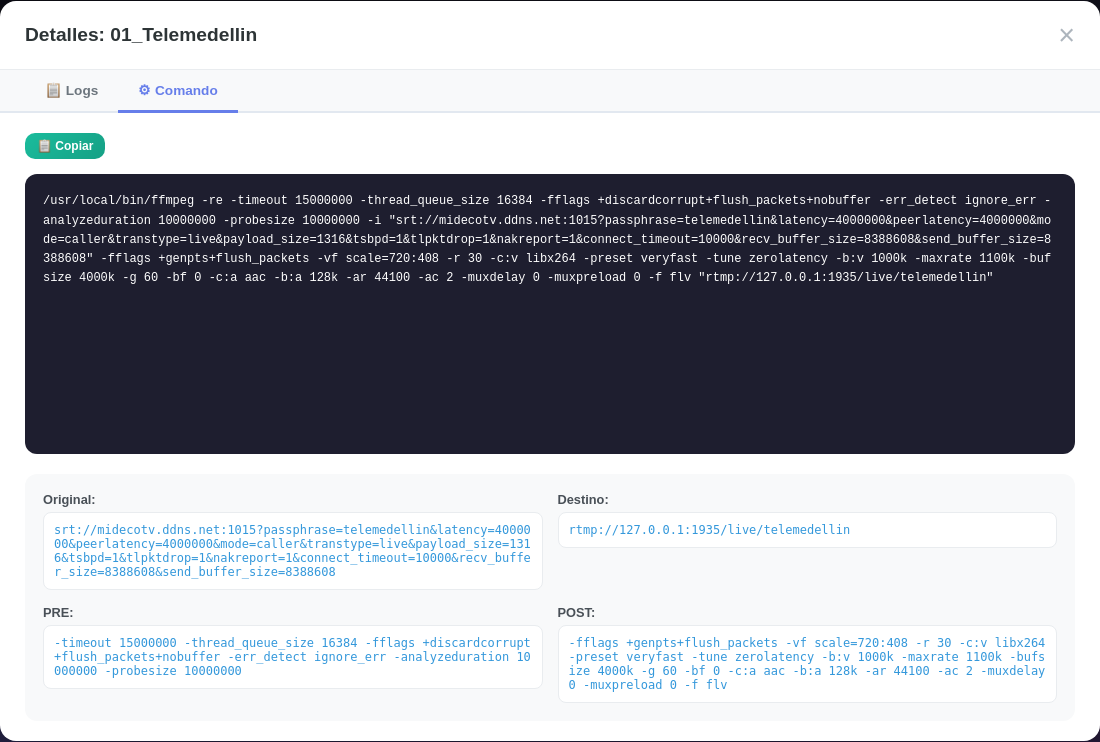
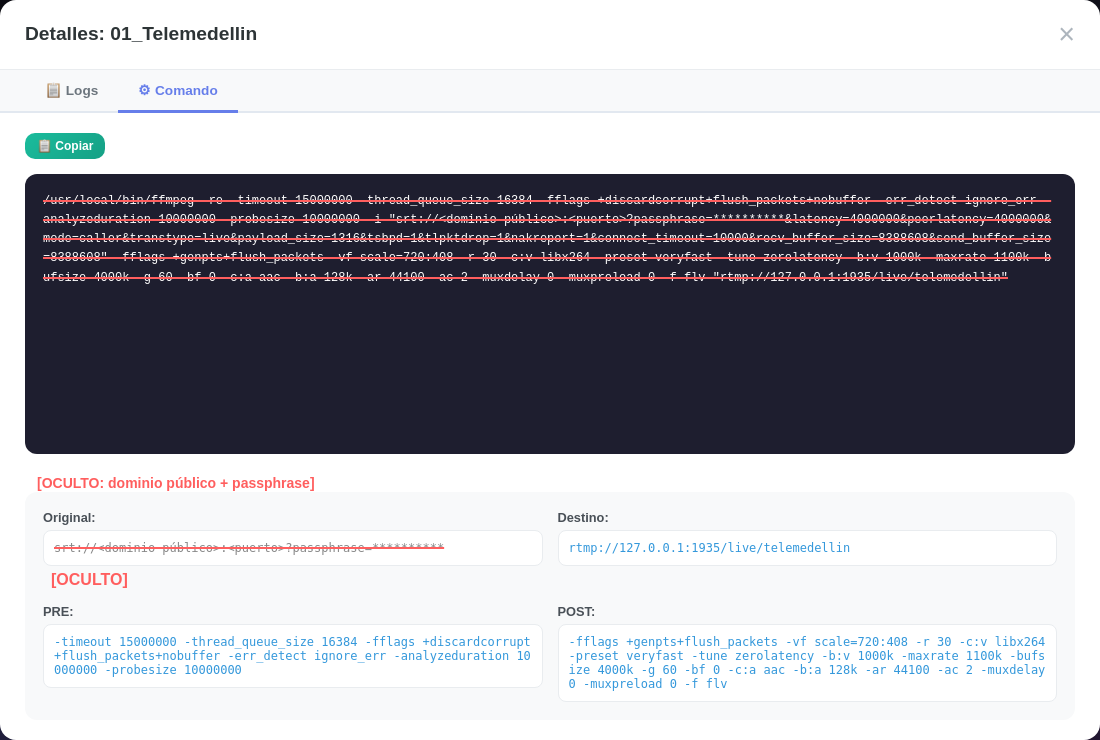
docs: redact public-domain leak in Details > Comando modal
The Telemedellín Command tab was leaking the public SRT host and
passphrase in two places: the 'Original:' field and the full ffmpeg
command at the top of the modal. The screenshot script now masks both
in the DOM before capture. LAN-only streams remain fully visible.

diff --git a/tools/take_screenshots.py b/tools/take_screenshots.py
@@ -65,7 +65,60 @@ async def main():
         await page.locator("#streams-tbody tr .cell-actions .btn-info").first.click()
         await page.wait_for_selector("#details-modal", state="visible", timeout=5000)
         await page.locator(".tab-btn", has_text="Comando").click()
-        await page.wait_for_timeout(500)
+        await page.wait_for_timeout(800)
+        # Redact the Original URL field if the open stream happens to be
+        # Telemedellín (public SRT host + passphrase). Keep all other streams
+        # untouched because they only expose LAN IPs.
+        await page.evaluate(
+            """
+            () => {
+                // 1) Original URL field (under the command box).
+                const cfg = document.getElementById('cmd-config');
+                if (cfg) {
+                    const strongs = cfg.querySelectorAll('strong');
+                    for (const s of strongs) {
+                        if (s.textContent.trim().toLowerCase().startsWith('original')) {
+                            const code = s.parentElement.querySelector('code');
+                            if (code && /midecotv\\.ddns\\.net|passphrase=/.test(code.textContent)) {
+                                code.textContent = 'srt://<dominio-p\u00fablico>:<puerto>?passphrase=**********';
+                                code.style.color = '#888';
+                                code.style.textDecoration = 'line-through';
+                                code.style.textDecorationColor = '#ff5e5e';
+                                code.style.textDecorationThickness = '2px';
+                                const badge = document.createElement('span');
+                                badge.textContent = '  [OCULTO]';
+                                badge.style.color = '#ff5e5e';
+                                badge.style.fontWeight = 'bold';
+                                badge.style.marginLeft = '8px';
+                                code.after(badge);
+                                break;
+                            }
+                        }
+                    }
+                }
+                // 2) Raw ffmpeg command box at the top of the modal.
+                const cmd = document.getElementById('cmd-content');
+                if (cmd && /midecotv\\.ddns\\.net/.test(cmd.textContent)) {
+                    const masked = cmd.textContent.replace(
+                        /srt:\\/\\/midecotv\\.ddns\\.net:\\d+\\?passphrase=[^&\\s"]+/,
+                        'srt://<dominio-p\u00fablico>:<puerto>?passphrase=**********'
+                    );
+                    cmd.textContent = masked;
+                    cmd.style.textDecoration = 'line-through';
+                    cmd.style.textDecorationColor = '#ff5e5e';
+                    cmd.style.textDecorationThickness = '2px';
+                    const badge = document.createElement('span');
+                    badge.textContent = '  [OCULTO: dominio p\u00fablico + passphrase]';
+                    badge.style.color = '#ff5e5e';
+                    badge.style.fontWeight = 'bold';
+                    badge.style.marginLeft = '12px';
+                    badge.style.fontSize = '14px';
+                    cmd.after(badge);
+                }
+            }
+            """
+        )
+        await page.wait_for_timeout(150)
         await shoot_clip(page, page.locator("#details-modal .modal-content"), "modal-details-command.png")
         await page.close()
 
